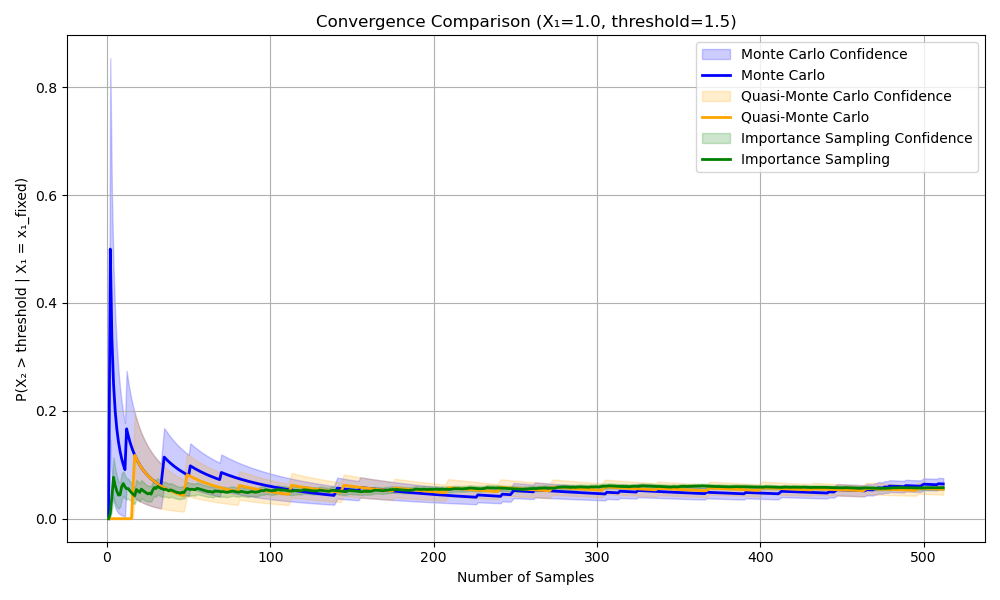
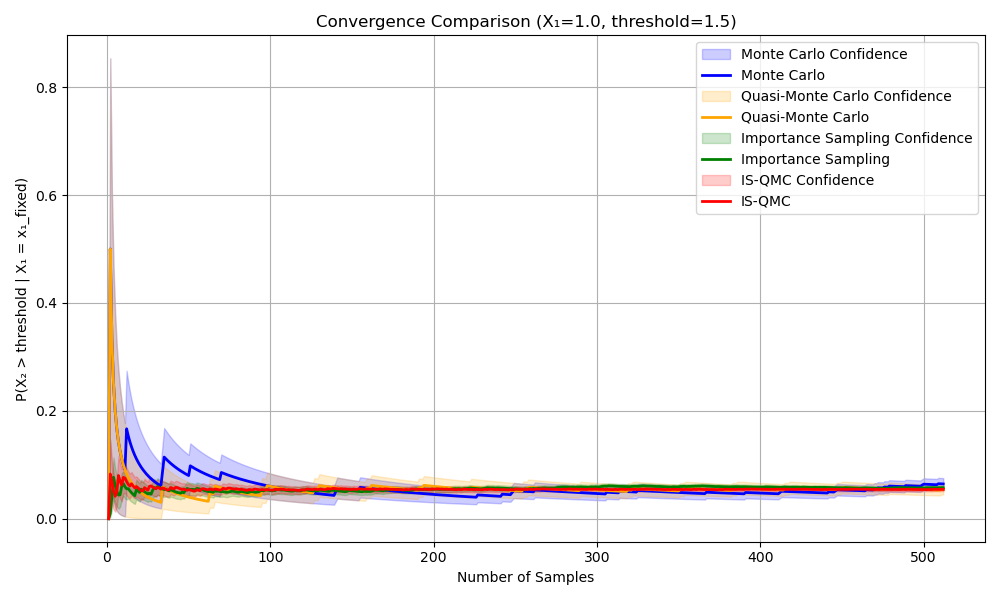
Implement Importance Sampling with QMC: - Added `is_qmc_estimator` for Importance Sampling with Quasi-Monte Carlo. - Updated `run_comparison` to return results for IS-QMC. - Modified `visualize_samples` to include IS-QMC samples and adjusted subplot layout for better visualization. - Updated main ex

Changed region(s): [[0.093, 0.33, 0.961, 0.87], [0.682, 0.27, 0.868, 0.36]]

diff --git a/examples/importance-sampling-exp/conditional_probability.py b/examples/importance-sampling-exp/conditional_probability.py
@@ -69,6 +69,7 @@ def run_comparison(n_samples: int, x1_fixed: float, threshold: float):
     mc_estimator = conditional_probability_estimator(threshold)
     qmc_estimator = conditional_probability_estimator(threshold)
     is_estimator = importance_sampling_estimator(threshold, target_dist, proposal_dist)
+    is_qmc_estimator = importance_sampling_estimator(threshold, target_dist, proposal_dist)
     
     # Run experiments
     mc_sampler = UnitCubeSampler()
@@ -98,7 +99,15 @@ def run_comparison(n_samples: int, x1_fixed: float, threshold: float):
         n_dimensions=1  # Now 1D
     )
     
-    return mc_results, qmc_results, is_results
+    is_qmc_results = run_sampling_experiment(
+        distribution=proposal_dist,
+        target_function=is_qmc_estimator,
+        sampler=qmc_sampler,
+        n_samples=n_samples,
+        n_dimensions=1
+    )
+    
+    return mc_results, qmc_results, is_results, is_qmc_results
 
 def visualize_distributions(target_dist: Gaussian1D, proposal_dist: Gaussian1D, 
                           threshold: float):
@@ -138,8 +147,9 @@ def visualize_distributions(target_dist: Gaussian1D, proposal_dist: Gaussian1D,
     plt.show()
 
 def visualize_samples(mc_samples: np.ndarray, qmc_samples: np.ndarray, 
-                     is_samples: np.ndarray, target_dist: Gaussian1D, 
-                     proposal_dist: Gaussian1D, threshold: float):
+                     is_samples: np.ndarray, is_qmc_samples: np.ndarray,
+                     target_dist: Gaussian1D, proposal_dist: Gaussian1D, 
+                     threshold: float):
     """
     Visualize samples from all methods against the true distribution.
     
@@ -147,11 +157,12 @@ def visualize_samples(mc_samples: np.ndarray, qmc_samples: np.ndarray,
         mc_samples: Samples from Monte Carlo
         qmc_samples: Samples from Quasi-Monte Carlo
         is_samples: Samples from Importance Sampling
+        is_qmc_samples: Samples from Importance Sampling with QMC
         target_dist: Target (conditional) distribution
         proposal_dist: Proposal distribution for IS
         threshold: Threshold value for the probability
     """
-    plt.figure(figsize=(15, 5))
+    plt.figure(figsize=(20, 5))  # Made wider to accommodate 4 plots
     
     # Create points for the true PDF
     x = np.linspace(target_dist.mean - 4*target_dist.std, 
@@ -162,11 +173,12 @@ def visualize_samples(mc_samples: np.ndarray, qmc_samples: np.ndarray,
     methods = [
         (mc_samples, 'blue', 'Monte Carlo'),
         (qmc_samples, 'orange', 'Quasi-Monte Carlo'),
-        (is_samples, 'green', 'Importance Sampling')
+        (is_samples, 'green', 'Importance Sampling'),
+        (is_qmc_samples, 'red', 'IS-QMC')  # Added new method
     ]
     
     for idx, (samples, color, label) in enumerate(methods, 1):
-        plt.subplot(1, 3, idx)
+        plt.subplot(1, 4, idx)  # Changed to 4 subplots
         
         # Plot histogram of samples
         plt.hist(samples, bins=50, density=True, alpha=0.5, 
@@ -215,7 +227,7 @@ if __name__ == "__main__":
     true_prob = get_ground_truth(x1_fixed, threshold)
     
     # Run comparison
-    mc_results, qmc_results, is_results = run_comparison(n_samples, x1_fixed, threshold)
+    mc_results, qmc_results, is_results, is_qmc_results = run_comparison(n_samples, x1_fixed, threshold)
     
     # Print final results
     print(f"\nResults for conditional probability P(X₂ > {threshold} | X₁ = {x1_fixed}):")
@@ -223,14 +235,16 @@ if __name__ == "__main__":
     print(f"Monte Carlo:         {mc_results['convergence_data'].running_means[-1]:.6f}")
     print(f"Quasi-Monte Carlo:   {qmc_results['convergence_data'].running_means[-1]:.6f}")
     print(f"Importance Sampling: {is_results['convergence_data'].running_means[-1]:.6f}")
+    print(f"IS-QMC:             {is_qmc_results['convergence_data'].running_means[-1]:.6f}")
     
     # Extract samples for visualization
     mc_samples = mc_results['samples']
     qmc_samples = qmc_results['samples']
     is_samples = is_results['samples']
+    is_qmc_samples = is_qmc_results['samples']
     
     # Visualize samples
-    visualize_samples(mc_samples, qmc_samples, is_samples, 
+    visualize_samples(mc_samples, qmc_samples, is_samples, is_qmc_samples,
                      target_dist, proposal_dist, threshold)
     
     # Plot convergence results
@@ -239,7 +253,8 @@ if __name__ == "__main__":
     methods = [
         (mc_results, 'blue', 'Monte Carlo'),
         (qmc_results, 'orange', 'Quasi-Monte Carlo'),
-        (is_results, 'green', 'Importance Sampling')
+        (is_results, 'green', 'Importance Sampling'),
+        (is_qmc_results, 'red', 'IS-QMC')  # Added new method
     ]
     
     for results, color, label in methods:
